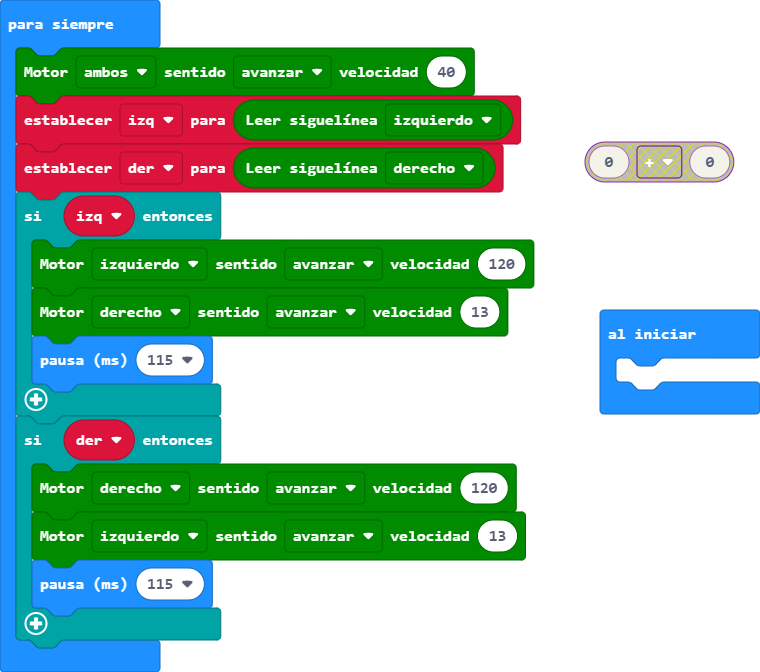
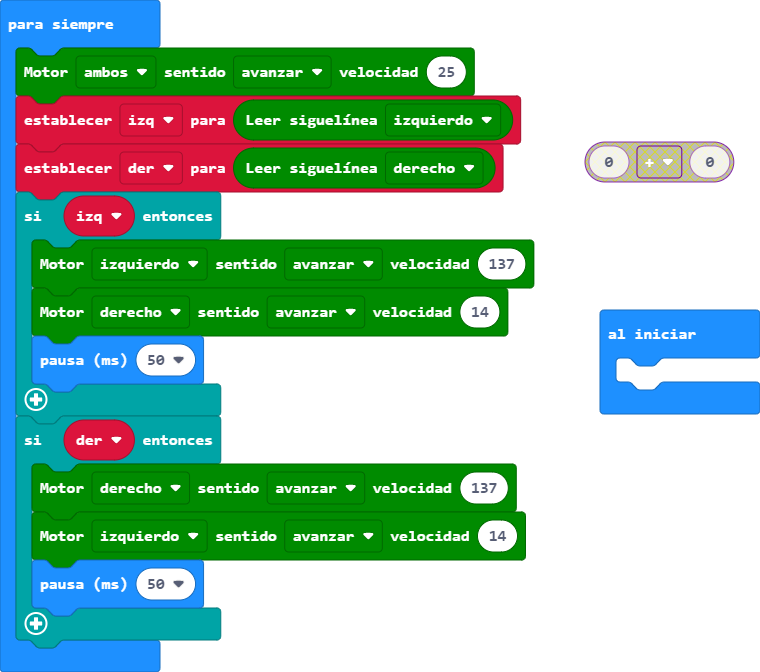
Actualizar main.blocks, main.ts

diff --git a/main.ts b/main.ts
@@ -1,17 +1,17 @@
 let izq = 0
 let der = 0
 basic.forever(function () {
-    maqueen.motorRun(maqueen.Motors.All, maqueen.Dir.CW, 40)
+    maqueen.motorRun(maqueen.Motors.All, maqueen.Dir.CW, 25)
     izq = maqueen.readPatrol(maqueen.Patrol.PatrolLeft)
     der = maqueen.readPatrol(maqueen.Patrol.PatrolRight)
     if (izq) {
-        maqueen.motorRun(maqueen.Motors.M1, maqueen.Dir.CW, 120)
-        maqueen.motorRun(maqueen.Motors.M2, maqueen.Dir.CW, 13)
-        basic.pause(115)
+        maqueen.motorRun(maqueen.Motors.M1, maqueen.Dir.CW, 137)
+        maqueen.motorRun(maqueen.Motors.M2, maqueen.Dir.CW, 14)
+        basic.pause(50)
     }
     if (der) {
-        maqueen.motorRun(maqueen.Motors.M2, maqueen.Dir.CW, 120)
-        maqueen.motorRun(maqueen.Motors.M1, maqueen.Dir.CW, 13)
-        basic.pause(115)
+        maqueen.motorRun(maqueen.Motors.M2, maqueen.Dir.CW, 137)
+        maqueen.motorRun(maqueen.Motors.M1, maqueen.Dir.CW, 14)
+        basic.pause(50)
     }
 })
